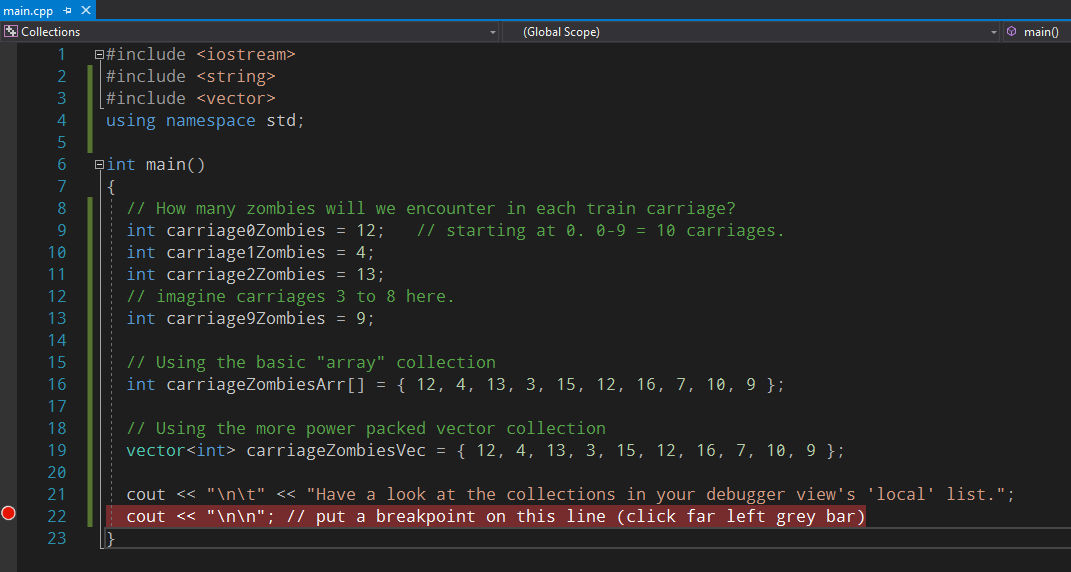
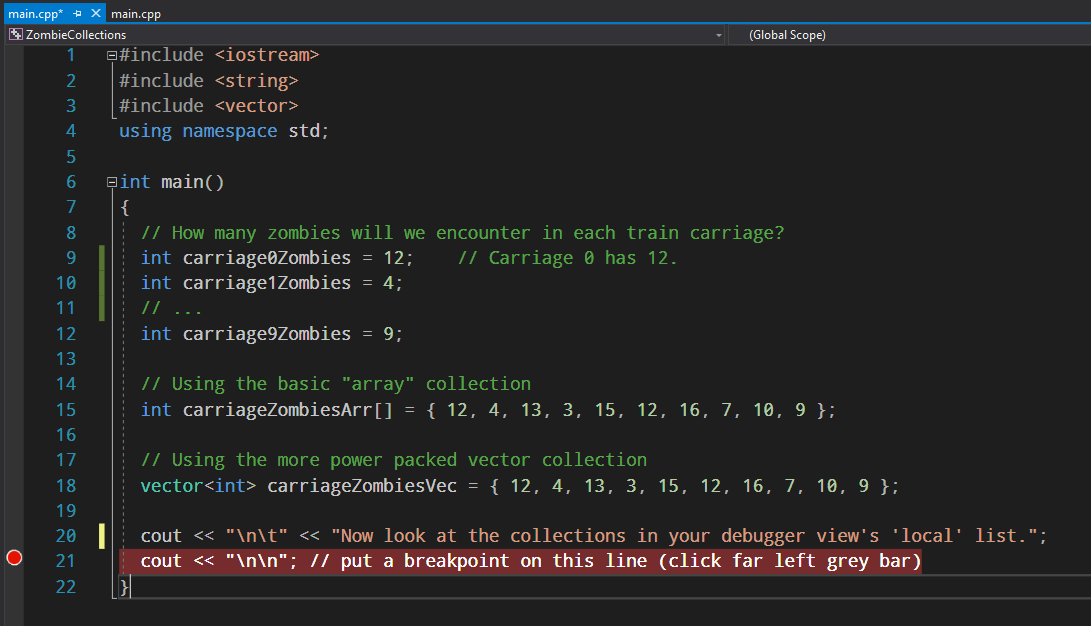
Much refined and organised zombie train example.

Changed region(s): [[0.0, 0.0, 1.0, 0.9808]]

diff --git a/mds/ISE102/week8_notes.html b/mds/ISE102/week8_notes.html
@@ -311,12 +311,17 @@ pre[data-line] .line-highlight[data-end]:after {
 </li>
 <li><a href="#big-data">Big data</a>
 <ul>
+<li><a href="#terminology">Terminology</a></li>
 <li><a href="#exercise-code-zombies">Exercise: Code zombies</a></li>
 <li><a href="#using-the-contents-of-a-collection">Using the contents of a collection</a></li>
 <li><a href="#details-of-for-loop">Details of for loop</a></li>
 </ul>
 </li>
-<li><a href="#other-ways-to-fool-around-with-vectors">Other ways to fool around with vectors</a></li>
+<li><a href="#other-ways-to-fool-around-with-vectors">Other ways to fool around with vectors</a>
+<ul>
+<li><a href="#other-kinds-of-collections">Other kinds of collections.</a></li>
+</ul>
+</li>
 <li><a href="#switch-statements">Switch statements</a>
 <ul>
 <li><a href="#exercise-a-menu-using-the-switch-statement">Exercise: A menu using the switch statement</a></li>
@@ -358,14 +363,34 @@ pre[data-line] .line-highlight[data-end]:after {
 <h2 class="mume-header" id="big-data">Big data</h2>
 
 <p>When you know something about a single thing or creature (hairLength, characterName, speed, hitPercentage) then a named variable for that piece of data makes sense.</p>
-<p>When it&#x2019;s the number of zombies in each carriage a train has, a record of every shot fired in the game and its hit/miss status, or the tiles/grid cell contents in a starcraft map, it makes more to treat them as a bunch of anonymous values in a list.</p>
+<p>When it&#x2019;s the <strong>number of zombies to battle in each carriage of a train</strong>, or a list of clans you could join, or the contents of each 64x64 pixel cell on a starcraft map, it makes more sense to <strong>treat them as a bunch of values in a list</strong>.</p>
+<p>Wouldn&#x2019;t this be handy?</p>
+<pre data-role="codeBlock" data-info="cpp" class="language-cpp">  <span class="token comment">// Saving zombie counts to (many) different variables representing carriages</span>
+  carriage7Zombies <span class="token operator">=</span> <span class="token number">8</span><span class="token punctuation">;</span>
+  carriage11Zombies <span class="token operator">=</span> <span class="token number">3</span><span class="token punctuation">;</span>    
+  
+  <span class="token comment">// Saving to slots in a train carriage collection. A little better.</span>
+  carriageZombies<span class="token punctuation">[</span><span class="token number">7</span><span class="token punctuation">]</span> <span class="token operator">=</span> <span class="token number">8</span><span class="token punctuation">;</span>
+  carriageZombies<span class="token punctuation">[</span><span class="token number">11</span><span class="token punctuation">]</span> <span class="token operator">=</span> <span class="token number">3</span><span class="token punctuation">;</span>
+
+  <span class="token comment">// Looping through a collection using a (counting) variable. Nice!</span>
+  <span class="token keyword">while</span> <span class="token punctuation">(</span>carriage <span class="token operator">&lt;</span> totalCarriages<span class="token punctuation">)</span>
+  <span class="token punctuation">{</span>
+    carriageZombies<span class="token punctuation">[</span>carriage<span class="token punctuation">]</span> <span class="token operator">=</span> <span class="token function">getRandom</span><span class="token punctuation">(</span><span class="token number">20</span><span class="token punctuation">)</span><span class="token punctuation">;</span> 
+  <span class="token punctuation">}</span>
+</pre><p><em>Happily, this exists. Except for that random function.</em></p>
 <p><img src="assets/week8/tiles_map_sc2.jpg" alt><br>
-<em>Your code might be checking a looot of cells every frame for things to draw or update</em></p>
+<em><strong>Imagine</strong> stepping through every cell on this grid 60 times a second with cell1, cell2&#x2026; cell2322</em></p>
+<h3 class="mume-header" id="terminology">Terminology</h3>
+
+<blockquote>
+<p>I&#x2019;ll be using list, collection and vector to mean the same thing. In practise we&#x2019;ll implement collections as <code>vector&lt;type&gt;</code> mostly.</p>
+</blockquote>
 <h3 class="mume-header" id="exercise-code-zombies">Exercise: Code zombies</h3>
 
 <p>Create a project in Visual studio and enter the code below, then we&#x2019;ll debug.</p>
-<p>Name it like so:<br>
-<img src="assets/week8/project_defining_zombie_population.png" alt></p>
+<p>Copy my naming, and use<br>
+<img src="assets/week8/project_zombie_collections.png" alt></p>
 <p>Enter the code and set the breakpoint:<br>
 <img src="assets/week8/code_defining_collections_carriageZombies.png" alt></p>
 <p>Run the debugger and, in the <em>locals</em> panel,  expand the collections.<br>
@@ -377,18 +402,32 @@ pre[data-line] .line-highlight[data-end]:after {
 <li>The last index is size-1: if they contain 9 elements, the last index is <code>[8]</code></li>
 <li>You can use a variable in place of a number to check, for example, how many zombies are in the same carriage as the zombie : <code>[playerCurrentCarriage]</code>;</li>
 </ul>
-<p>Finally, we can talk about <code>for</code> loops. With a <code>while</code> loop for comparison.</p>
-<h1 class="mume-header" id="todo">TODO</h1>
-
-<p>/////////// while loop steps through carriages,<br>
-// states the current population of zombies, detonates Mortein Zombie Fast Knockdown Kitchen Safe, updates the population (0), states the new population.</p>
-<p>///// For loop version</p>
+<p>Lets finally use those <code>for</code> loops. They&#x2019;re great for filling and reading collections.</p>
+<p><strong>ZOMBIE TRAIN</strong><br>
+<img src="assets/week8/code_loop_zombies.png" alt></p>
 <h3 class="mume-header" id="details-of-for-loop">Details of for loop</h3>
 
-<p>Parts of it. Declaring variables inside it or outside.</p>
+<p>A for loop is just a while loop with three key parts jammed into the parentheses: setup of a counter variable, testing the end condition, and modifying the counter every loop (up or down usually).</p>
+<pre data-role="codeBlock" data-info="cpp" class="language-cpp"><span class="token keyword">for</span> <span class="token punctuation">(</span>counter setup<span class="token punctuation">;</span> condition we end on<span class="token punctuation">;</span> change counter each loop<span class="token punctuation">)</span>
+<span class="token punctuation">{</span>
+  <span class="token comment">// execute this code each loop</span>
+<span class="token punctuation">}</span>
+</pre><p>They can be nested like while loops.</p>
+<blockquote>
+<p>Most often programmers use <code>i</code>, <code>j</code>, <code>k</code> and so on for the name of the counter or <em>index</em> variable. It&#x2019;s a convention that saves thinking of counter names each time.</p>
+</blockquote>
 <h2 class="mume-header" id="other-ways-to-fool-around-with-vectors">Other ways to fool around with vectors</h2>
 
-<p>// adding, removing from end. same at other positions.</p>
+<pre data-role="codeBlock" data-info="cpp" class="language-cpp">carriageZombies<span class="token punctuation">.</span><span class="token function">pop_back</span><span class="token punctuation">(</span><span class="token punctuation">)</span><span class="token punctuation">;</span>   <span class="token comment">// Remove the last item in list, &quot;popping&quot; it off the end.</span>
+carriageZombies<span class="token punctuation">.</span><span class="token function">clear</span><span class="token punctuation">(</span><span class="token punctuation">)</span><span class="token punctuation">;</span>      <span class="token comment">// Delete everyting. No more train zombie census data.</span>
+
+<span class="token comment">// Make a vector of strings and initialise it with values.</span>
+vector<span class="token operator">&lt;</span>string<span class="token operator">&gt;</span> zombieNames <span class="token operator">=</span> <span class="token punctuation">{</span><span class="token string">&quot;Kaarhla&quot;</span><span class="token punctuation">,</span> <span class="token string">&quot;Braaaeenda&quot;</span><span class="token punctuation">,</span> <span class="token string">&quot;Eeyeeahghn&quot;</span><span class="token punctuation">}</span><span class="token punctuation">;</span>
+</pre><p>Look up the documentation or youtube for more vector features.</p>
+<h3 class="mume-header" id="other-kinds-of-collections">Other kinds of collections.</h3>
+
+<p>There are more than a few specialised collection types in C++. Typically they&#x2019;re referred to as &#x201C;containers&#x201D; in the documentation (though it&#x2019;s a bit ambiguous).</p>
+<p><code>hash</code>, <code>unordered_map</code>, <code>unordered_set</code>, <code>deque</code> are a few of them.</p>
 <h2 class="mume-header" id="switch-statements">Switch statements</h2>
 
 <p>Switch is like a series of &#x201C;if&#x2026; else&#x201D; statements with less curly braces and syntax. Useful for situations where there are many options and one outcome.</p>
@@ -426,7 +465,7 @@ pre[data-line] .line-highlight[data-end]:after {
 <p>/// example with various  numbers thrown in</p>
 <h2 class="mume-header" id="break-is-brutal-in-for-loops">Break is brutal in For loops</h2>
 
-<p>/// show how it suddenly drops you out.</p>
+<p>Try putting one in either of your zombie train loops.</p>
 <h2 class="mume-header" id="unary-operators-are-complicated">Unary operators are complicated</h2>
 
 <p><code>x++</code> is pretty simple right?<br>

diff --git a/mds/ISE102/week8_notes.md b/mds/ISE102/week8_notes.md
@@ -16,10 +16,12 @@ export_on_save:
     - [Uses for collections in games](#uses-for-collections-in-games)
     - [Exercise: Your collections](#exercise-your-collections)
   - [Big data](#big-data)
+    - [Terminology](#terminology)
     - [Exercise: Code zombies](#exercise-code-zombies)
     - [Using the contents of a collection](#using-the-contents-of-a-collection)
     - [Details of for loop](#details-of-for-loop)
   - [Other ways to fool around with vectors](#other-ways-to-fool-around-with-vectors)
+    - [Other kinds of collections.](#other-kinds-of-collections)
   - [Switch statements](#switch-statements)
     - [Exercise: A menu using the switch statement](#exercise-a-menu-using-the-switch-statement)
     - [Enums can get spicey when you assign values.](#enums-can-get-spicey-when-you-assign-values)
@@ -59,17 +61,40 @@ Head to this discussion thread and post your own collections:
 
 When you know something about a single thing or creature (hairLength, characterName, speed, hitPercentage) then a named variable for that piece of data makes sense. 
 
-When it's the number of zombies in each carriage a train has, a record of every shot fired in the game and its hit/miss status, or the tiles/grid cell contents in a starcraft map, it makes more to treat them as a bunch of anonymous values in a list.
+When it's the **number of zombies to battle in each carriage of a train**, or a list of clans you could join, or the contents of each 64x64 pixel cell on a starcraft map, it makes more sense to **treat them as a bunch of values in a list**.
+
+Wouldn't this be handy?
+
+```cpp
+  // Saving zombie counts to (many) different variables representing carriages
+  carriage7Zombies = 8;
+  carriage11Zombies = 3;    
+  
+  // Saving to slots in a train carriage collection. A little better.
+  carriageZombies[7] = 8;
+  carriageZombies[11] = 3;
+
+  // Looping through a collection using a (counting) variable. Nice!
+  while (carriage < totalCarriages)
+  {
+    carriageZombies[carriage] = getRandom(20); 
+  }
+```
+_Happily, this exists. Except for that random function._
 
 ![](assets/week8/tiles_map_sc2.jpg)
-_Your code might be checking a looot of cells every frame for things to draw or update_
+_**Imagine** stepping through every cell on this grid 60 times a second with cell1, cell2.. cell2322_
+
+### Terminology
+
+> I'll be using list, collection and vector to mean the same thing. In practise we'll implement collections as `vector<type>` mostly.
 
 ### Exercise: Code zombies
 
 Create a project in Visual studio and enter the code below, then we'll debug.
 
-Name it like so:
-![](assets/week8/project_defining_zombie_population.png)
+Copy my naming, and use 
+![](assets/week8/project_zombie_collections.png)
 
 Enter the code and set the breakpoint:
 ![](assets/week8/code_defining_collections_carriageZombies.png)
@@ -83,19 +108,42 @@ Run the debugger and, in the _locals_ panel,  expand the collections.
 - The last index is size-1: if they contain 9 elements, the last index is `[8]`
 - You can use a variable in place of a number to check, for example, how many zombies are in the same carriage as the zombie : `[playerCurrentCarriage]`;
 
-Finally, we can talk about `for` loops. With a `while` loop for comparison.
-#TODO
-/////////// while loop steps through carriages, 
-// states the current population of zombies, detonates Mortein Zombie Fast Knockdown Kitchen Safe, updates the population (0), states the new population.
+Lets finally use those `for` loops. They're great for filling and reading collections.
 
-///// For loop version
+**ZOMBIE TRAIN**
+![](assets/week8/code_loop_zombies.png)
+
 
 ### Details of for loop
-Parts of it. Declaring variables inside it or outside. 
+A for loop is just a while loop with three key parts jammed into the parentheses: setup of a counter variable, testing the end condition, and modifying the counter every loop (up or down usually).
+
+```cpp
+for (counter setup; condition we end on; change counter each loop)
+{
+  // execute this code each loop
+}
+```
+They can be nested like while loops.
+
+> Most often programmers use `i`, `j`, `k` and so on for the name of the counter or _index_ variable. It's a convention that saves thinking of counter names each time.
 
 ## Other ways to fool around with vectors
 
-// adding, removing from end. same at other positions.
+```cpp
+carriageZombies.pop_back();   // Remove the last item in list, "popping" it off the end.
+carriageZombies.clear();      // Delete everyting. No more train zombie census data.
+
+// Make a vector of strings and initialise it with values.
+vector<string> zombieNames = {"Kaarhla", "Braaaeenda", "Eeyeeahghn"};
+```
+
+Look up the documentation or youtube for more vector features.
+
+### Other kinds of collections.
+
+There are more than a few specialised collection types in C++. Typically they're referred to as "containers" in the documentation (though it's a bit ambiguous).
+
+`hash`, `unordered_map`, `unordered_set`, `deque` are a few of them.
 
 ## Switch statements
 
@@ -142,7 +190,7 @@ Now try add in some enums! (put the `break;` back in first).
 
 ## Break is brutal in For loops
 
-/// show how it suddenly drops you out.
+Try putting one in either of your zombie train loops.
 
 ## Unary operators are complicated
 
